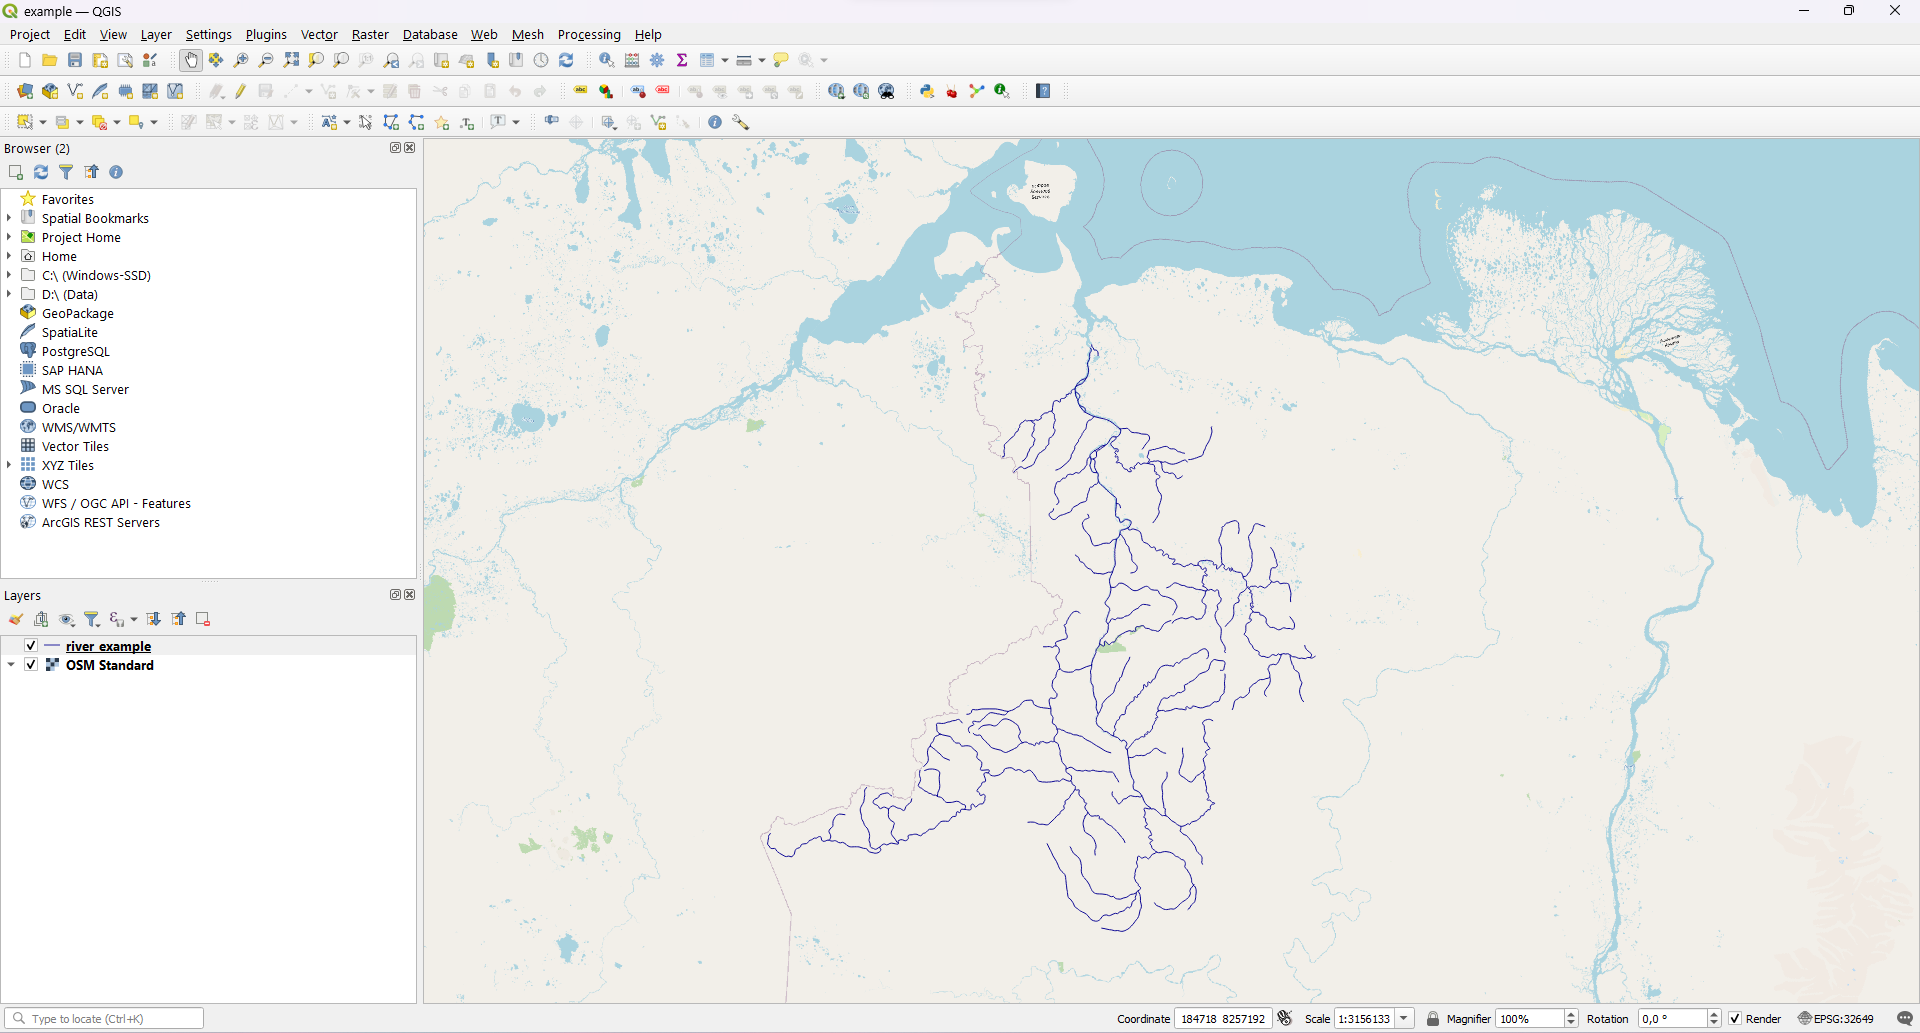
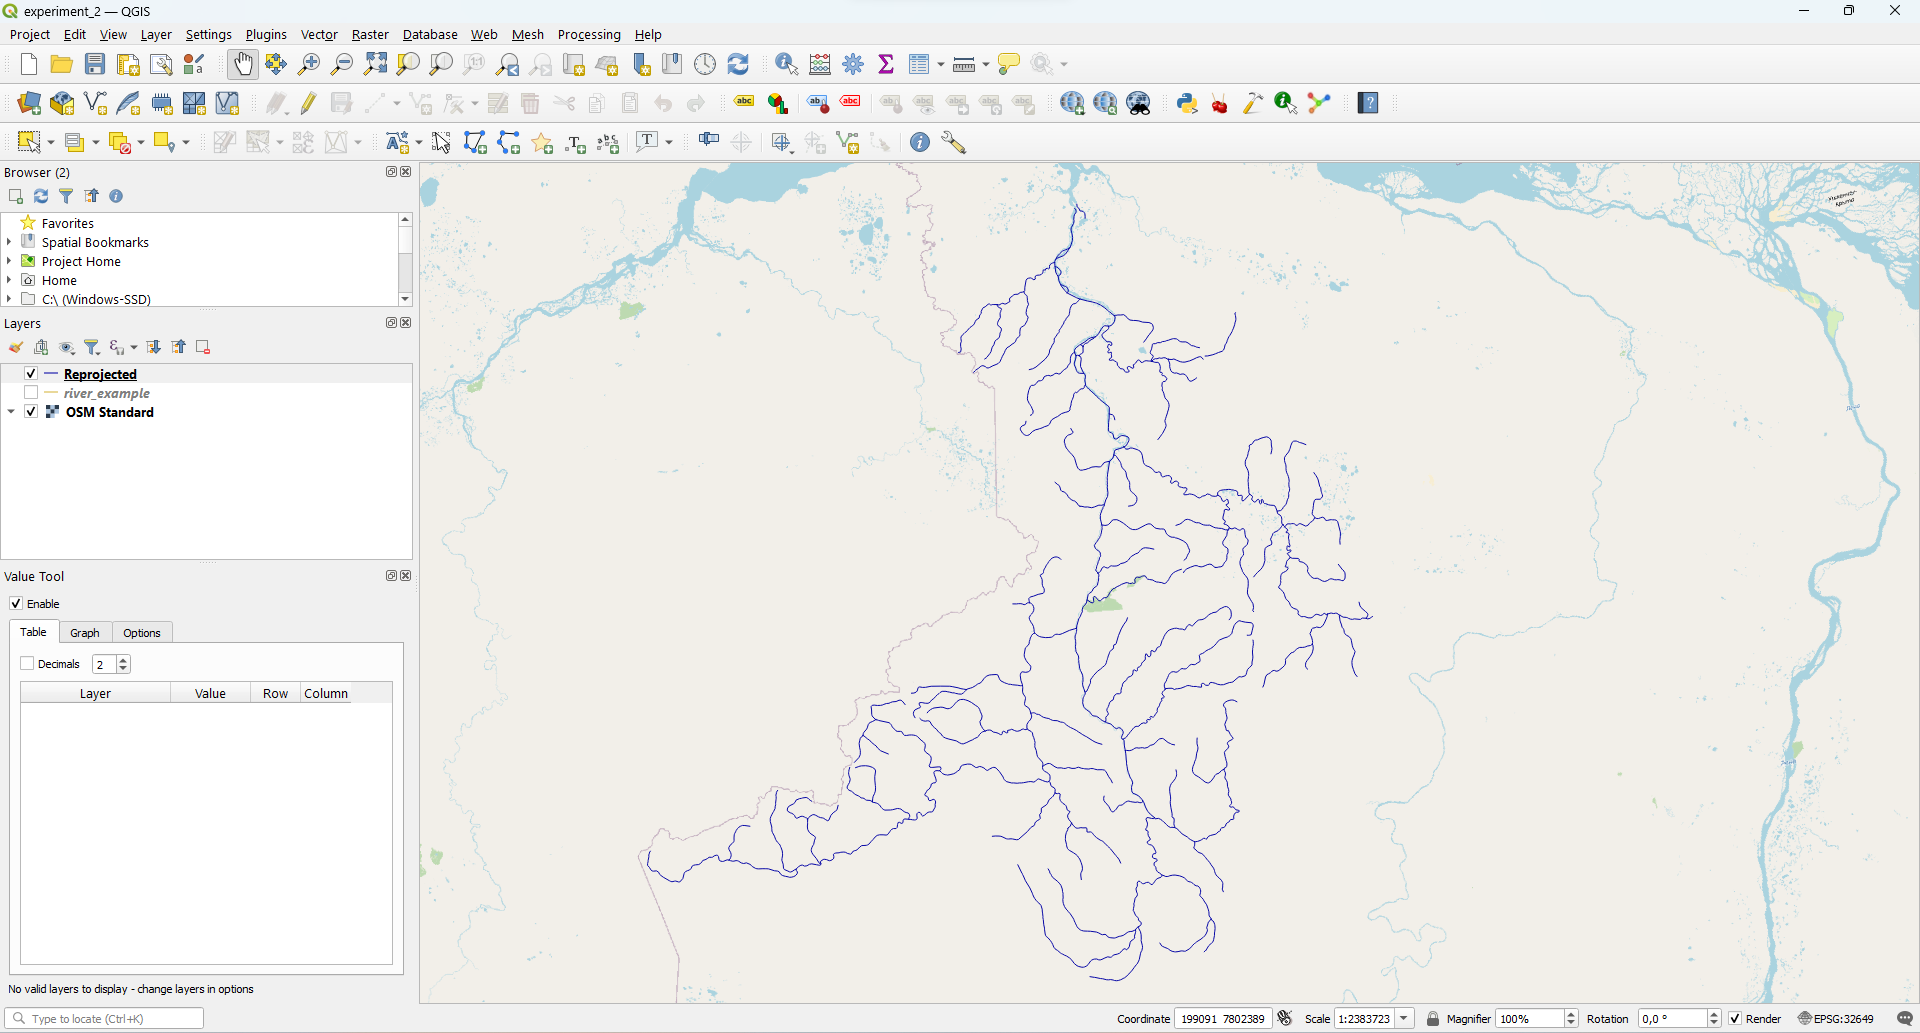
updated documentation and added exception processing

diff --git a/lines_ranking.py b/lines_ranking.py
@@ -243,21 +243,25 @@ class LinesRanking:
             self.dlg.lineEdit_7.setDisabled(True)
             
         layers = QgsProject.instance().layerTreeRoot().children()
-        self.filtered_layers=[]
-        self.point_layers=[]
+        self.filtered_layers = []
+        self.point_layers = []
         for layer in layers:
-            if layer.layer().type()==QgsMapLayer.VectorLayer:
-                valid_line=False
-                valid_point=False
-                for feature in layer.layer().getFeatures():
-                    if feature.geometry().wkbType()==QgsWkbTypes.LineString or feature.geometry().wkbType()==QgsWkbTypes.MultiLineString or feature.geometry().wkbType()==QgsWkbTypes.Unknown:
-                        valid_line=True
-                    if feature.geometry().wkbType()==QgsWkbTypes.Point or feature.geometry().wkbType()==QgsWkbTypes.MultiPoint:
-                        valid_point=True
-                if valid_line==True:
-                    self.filtered_layers.append(layer)
-                if valid_point==True:
-                    self.point_layers.append(layer)
+            try:
+                if layer.layer().type() == QgsMapLayer.VectorLayer:
+                    valid_line = False
+                    valid_point = False
+                    for feature in layer.layer().getFeatures():
+                        if feature.geometry().wkbType()==QgsWkbTypes.LineString or feature.geometry().wkbType()==QgsWkbTypes.MultiLineString or feature.geometry().wkbType()==QgsWkbTypes.Unknown:
+                            valid_line = True
+                        if feature.geometry().wkbType()==QgsWkbTypes.Point or feature.geometry().wkbType()==QgsWkbTypes.MultiPoint:
+                            valid_point = True
+                    if valid_line is True:
+                        self.filtered_layers.append(layer)
+                    if valid_point is True:
+                        self.point_layers.append(layer)
+            except Exception as ex:
+                # Mostly due to AttributeError: 'QgsLayerTreeNode' object has no attribute 'layer'
+                pass
                     
         self.dlg.comboBox.clear()
         self.dlg.comboBox_2.clear()

diff --git a/docs/usage/functionality_review.md b/docs/usage/functionality_review.md
@@ -8,12 +8,14 @@ In this document, we'll take a step-by-step look at how it can be used.
 
 In the [repository with source code](https://github.com/ChrisLisbon/QGIS_LinesRankingPlugin)
 there is a folder with data examples (you can download this files to your computer by clicking "Download raw file"). We will take 'river_example' vector layer from [example_data](https://github.com/ChrisLisbon/QGIS_LinesRankingPlugin/tree/master/example_data) folder.
-Load this file into QGIS (and turn on Open Street Map: `Web` - `QuickWebServices` - `OSM` - `OSM Standard`
-.
+Load this file into QGIS (and turn on Open Street Map: `Web` - `QuickWebServices` - `OSM` - `OSM Standard`.
+
 Perform re-projection to WGS 84 / UTM zone 49N: 
 
 - Project: `Project` - `Properties` - `CRS` - `WGS 84 / UTM zone 49N`;
 - Layer: `Processing` - `Toolbox` - `Reproject layer` - assign "WGS 84 / UTM zone 49N"
+
+Save layer as permanent vector `shp` (or any other) file. 
 
 <img src="https://raw.githubusercontent.com/ChrisLisbon/QGIS_LinesRankingPlugin/master/images/load_river_example.png" width="750"/>
 
@@ -36,63 +38,9 @@ We can use `start_point_example`. Re-project the layer: `Processing` - `Toolbox`
 
 The plugin creates a new vector layer in which the following fields (in attributes table) appear:
 
-- **Value** - total number of tributaries. You can consider this value as "[Shreve stream order](https://en.wikipedia.org/wiki/Stream_order)". 
+- **ValueShreve** - total number of tributaries. You can consider this value as "[Shreve stream order](https://en.wikipedia.org/wiki/Stream_order)". 
+- **ValueStrahler** - Strahler order.
 - **Rank** - distance to the segment from the starting point in a categorized form: rank 1 means 
   that this segment is adjacent to the starting point. rank 2 are those adjacent to segments 
-  with rank 1, etc. This coefficient can be considered the inverse of the "[Straghler order](https://en.wikipedia.org/wiki/Strahler_number)"
+  with rank 1, etc. This coefficient can be considered the inverse of the "[Topological order](https://en.wikipedia.org/wiki/Stream_order#Horton_and_topological_stream_orders)"
 - **Distance** - distance to the segment from the starting point
-
-All three new fields can be seen in the attribute table: `rank_attributes` - `Open Attribute Table`.
-
-We can also see that our layer is smaller than the original layer - some parts of the river have gone off. For example, check 
-this picture:
-
-<img src="https://raw.githubusercontent.com/ChrisLisbon/QGIS_LinesRankingPlugin/master/images/missing_parts.png" width="750"/>
-
-**This is ok** - the topology of vector layers may contain errors, so some elements of the vector layer do not fit tightly together:
-
-<img src="https://raw.githubusercontent.com/ChrisLisbon/QGIS_LinesRankingPlugin/master/images/topology_issues.png" width="750"/>
-
-To fix this, pay attention to the algorithm parameter `Snapping threshold (in map units)`. 
-We can set the number to 500 meters, for example, and then all layer gaps that do not exceed 500 meters will be combined:
-
-<img src="https://raw.githubusercontent.com/ChrisLisbon/QGIS_LinesRankingPlugin/master/images/th_500.png" width="750"/>
-
-You may also notice that the structure of the vector layer has changed. For example, instead of large vector layer elements, several small ones have appeared. This is also normal!
-The plugin splits the source layer into segments, so the result is presented as a segmented layer. 
-
-<img src="https://raw.githubusercontent.com/ChrisLisbon/QGIS_LinesRankingPlugin/master/images/segments_split.png" width="750"/>
-
-## Visualization 
-
-To better understand what values have been assigned to this layer, we suggest preparing some visualizations.
-
-### Value
-
-`rank_attributes` - `Properties` - `Symbology` - `Graduated`. Then choose 'Value' field for `Value`
-and 'Size' for `Method` and click `Classify`: 
-
-<img src="https://raw.githubusercontent.com/ChrisLisbon/QGIS_LinesRankingPlugin/master/images/results_vis_values.png" width="750"/>
-
-Thus, using the Value attribute you can show the total number of tributaries. 
-
-### Rank 
-
-`rank_attributes` - `Properties` - `Symbology` - `Graduated`. Then choose 'Rank' field for `Value`
-and 'Color' for `Method` and click `Classify`: 
-
-<img src="https://raw.githubusercontent.com/ChrisLisbon/QGIS_LinesRankingPlugin/master/images/results_vis_rank.png" width="750"/>
-
-With the help of assigned ranks you can determine how far the river section (segment) is located from the estuary - in terms of the remoteness of the graph nodes. 
-
-### Distance 
-
-The Rank attribute gives an incomplete idea of the remoteness of the segments. Therefore, 
-if you are interested in distance in meters, use the "Distance" attribute to visualize.
-
-`rank_attributes` - `Properties` - `Symbology` - `Graduated`. Then choose 'Distance' field for `Value`
-and 'Color' for `Method` and click `Classify`: 
-
-<img src="https://raw.githubusercontent.com/ChrisLisbon/QGIS_LinesRankingPlugin/master/images/results_vis_distance.png" width="750"/>
-
-With the help of assigned ranks you can determine how far the river section (segment) is located from the estuary - in terms of the actual distance metrics. 
